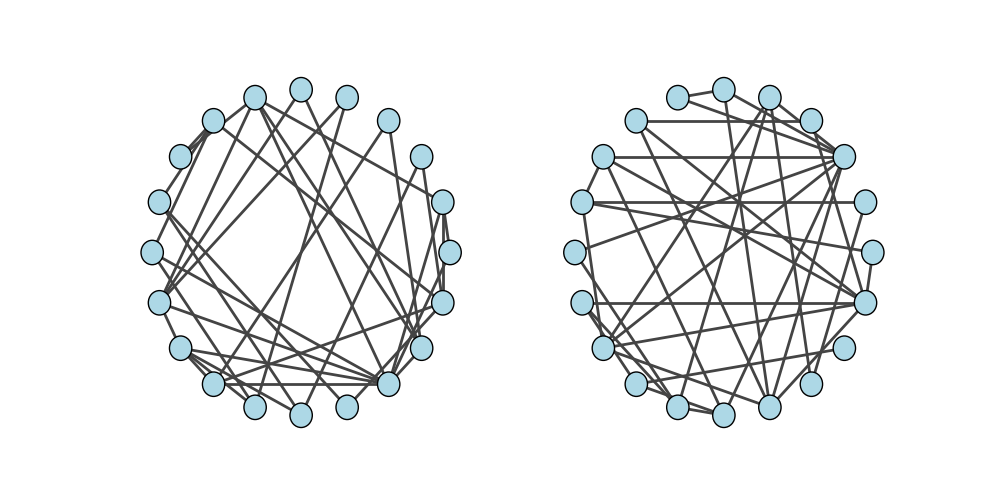
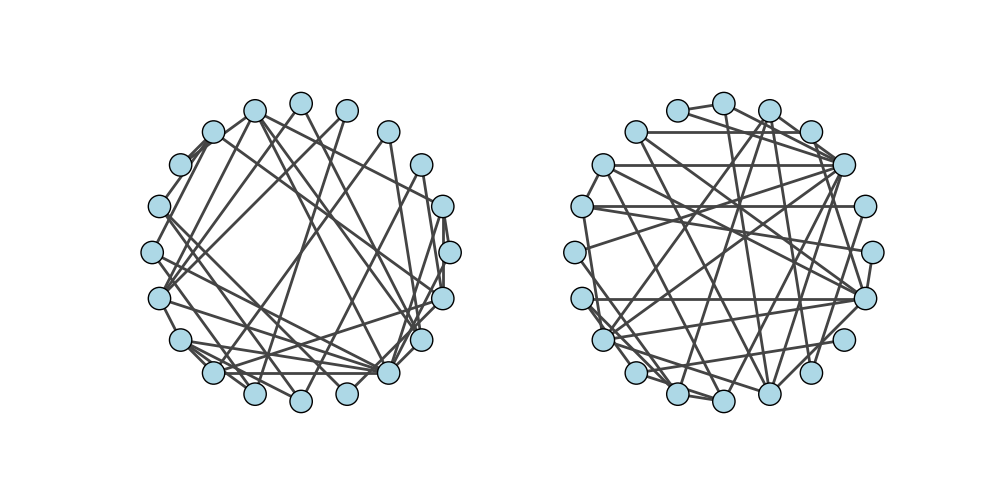
Fix aspect ratio of tutorials to 1.0 for the sake of beauty

Changed region(s): [[0.558, 0.15, 0.899, 0.87], [0.124, 0.15, 0.465, 0.87], [0.558, 0.48, 0.62, 0.54]]

diff --git a/doc/source/tutorials/erdos_renyi/assets/erdos_renyi.py b/doc/source/tutorials/erdos_renyi/assets/erdos_renyi.py
@@ -26,12 +26,14 @@ ig.plot(
     layout="circle",
     vertex_color="lightblue"
 )
+axs[0].set_aspect(1)
 ig.plot(
     g2,
     target=axs[1],
     layout="circle",
     vertex_color="lightblue"
 )
+axs[1].set_aspect(1)
 plt.show()
 
 fig, axs = plt.subplots(1, 2, figsize=(10, 5))
@@ -42,6 +44,7 @@ ig.plot(
     vertex_color="lightblue",
     vertex_size=0.15
 )
+axs[0].set_aspect(1)
 ig.plot(
     g4,
     target=axs[1],
@@ -49,6 +52,7 @@ ig.plot(
     vertex_color="lightblue",
     vertex_size=0.15
 )
+axs[1].set_aspect(1)
 plt.show()
 
 # IGRAPH U--- 15 18 -- 

diff --git a/doc/source/tutorials/bipartite_matching/assets/bipartite_matching.py b/doc/source/tutorials/bipartite_matching/assets/bipartite_matching.py
@@ -3,7 +3,7 @@ import matplotlib.pyplot as plt
 
 # Assign nodes 0-4 to one side, and the nodes 5-8 to the other side
 g = ig.Graph.Bipartite(
-    [0,0,0,0,0,1,1,1,1],
+    [0, 0, 0, 0, 0, 1, 1, 1, 1],
     [(0, 5), (1, 6), (1, 7), (2, 5), (2, 8), (3, 6), (4, 5), (4, 6)]
 )
 assert(g.is_bipartite())
@@ -29,6 +29,8 @@ ig.plot(
     vertex_color="lightblue",
     edge_width=[2.5 if e.target==matching.match_of(e.source) else 1.0 for e in g.es]
 )
+ax.set_aspect(1)
+
 plt.show()
 
 # Matching is:

diff --git a/doc/source/tutorials/quickstart/assets/quickstart.py b/doc/source/tutorials/quickstart/assets/quickstart.py
@@ -32,6 +32,7 @@ ig.plot(
     edge_width=[2 if married else 1 for married in g.es["married"]],
     edge_color=["#F00" if married else "#000" for married in g.es["married"]],
 )
+ax.set_aspect(1)
 
 plt.show()
 

diff --git a/doc/source/tutorials/bipartite_matching_maxflow/assets/bipartite_matching_maxflow.py b/doc/source/tutorials/bipartite_matching_maxflow/assets/bipartite_matching_maxflow.py
@@ -47,4 +47,5 @@ ig.plot(
     vertex_color=["lightblue" if i < 9 else "orange" for i in range(11)],
     edge_width=[1.0 + flow.flow[i] for i in range(g.ecount())]
 )
+ax.set_aspect(1)
 plt.show()

diff --git a/doc/source/tutorials/maxflow/assets/maxflow.py b/doc/source/tutorials/maxflow/assets/maxflow.py
@@ -22,6 +22,7 @@ ig.plot(
     vertex_label=range(g.vcount()),
     vertex_color="lightblue"
 )
+ax.set_aspect(1)
 plt.show()
 
 # Output:

diff --git a/doc/source/tutorials/erdos_renyi/erdos_renyi.rst b/doc/source/tutorials/erdos_renyi/erdos_renyi.rst
@@ -39,12 +39,14 @@ We generate two graphs of each, so we can confirm that our graph generator is tr
         layout="circle",
         vertex_color="lightblue"
     )
+    axs[0].set_aspect(1)
     ig.plot(
         g2,
         target=axs[1],
         layout="circle",
         vertex_color="lightblue"
     )
+    axs[1].set_aspect(1)
     plt.show()
 
     fig, axs = plt.subplots(1, 2, figsize=(10, 5))
@@ -55,6 +57,7 @@ We generate two graphs of each, so we can confirm that our graph generator is tr
         vertex_color="lightblue",
         vertex_size=0.15
     )
+    axs[0].set_aspect(1)
     ig.plot(
         g4,
         target=axs[1],
@@ -62,6 +65,7 @@ We generate two graphs of each, so we can confirm that our graph generator is tr
         vertex_color="lightblue",
         vertex_size=0.15
     )
+    axs[1].set_aspect(1)
     plt.show()
 
 The received output is:

diff --git a/doc/source/tutorials/bipartite_matching/bipartite_matching.rst b/doc/source/tutorials/bipartite_matching/bipartite_matching.rst
@@ -11,7 +11,7 @@ This example demonstrates an efficient way to find and visualise a maximum bipar
 
     # Assign nodes 0-4 to one side, and the nodes 5-8 to the other side
     g = ig.Graph.Bipartite(
-        [0,0,0,0,0,1,1,1,1],
+        [0, 0, 0, 0, 0, 1, 1, 1, 1],
         [(0, 5), (1, 6), (1, 7), (2, 5), (2, 8), (3, 6), (4, 5), (4, 6)]
     )
     assert(g.is_bipartite())
@@ -48,6 +48,7 @@ And finally display the bipartite graph with matchings highlighted.
         vertex_color="lightblue",
         edge_width=[2.5 if e.target==matching.match_of(e.source) else 1.0 for e in g.es]
     )
+    ax.set_aspect(1)
     plt.show()
 
 The received output is

diff --git a/doc/source/tutorials/bipartite_matching_maxflow/bipartite_matching_maxflow.rst b/doc/source/tutorials/bipartite_matching_maxflow/bipartite_matching_maxflow.rst
@@ -66,6 +66,7 @@ And finally, display the original flow graph nicely with the matchings added
         vertex_color=["lightblue" if i < 9 else "orange" for i in range(11)],
         edge_width=[1.0 + flow.flow[i] for i in range(g.ecount())]
     )
+    ax.set_aspect(1)
     plt.show()
 
 The received output is:

diff --git a/doc/source/tutorials/quickstart/quickstart.rst b/doc/source/tutorials/quickstart/quickstart.rst
@@ -48,6 +48,7 @@ This example is aimed at those with some familiarity with python and/or graphing
         edge_width=[2 if married else 1 for married in g.es["married"]],
         edge_color=["#F00" if married else "#000" for married in g.es["married"]],
     )
+    ax.set_aspect(1)
 
     plt.show()
 

diff --git a/doc/source/tutorials/maxflow/maxflow.rst b/doc/source/tutorials/maxflow/maxflow.rst
@@ -31,7 +31,7 @@ The received output is:
     Edge assignments [1.0, 5.0, 1.0, 2.0, 3.0, 3.0, 3.0]
 
 .. figure:: ./figures/maxflow.png
-   :alt: The visual representation of the flow graph
+   :alt: A visual representation of the flow graph
    :align: center
 
    The flow graph
